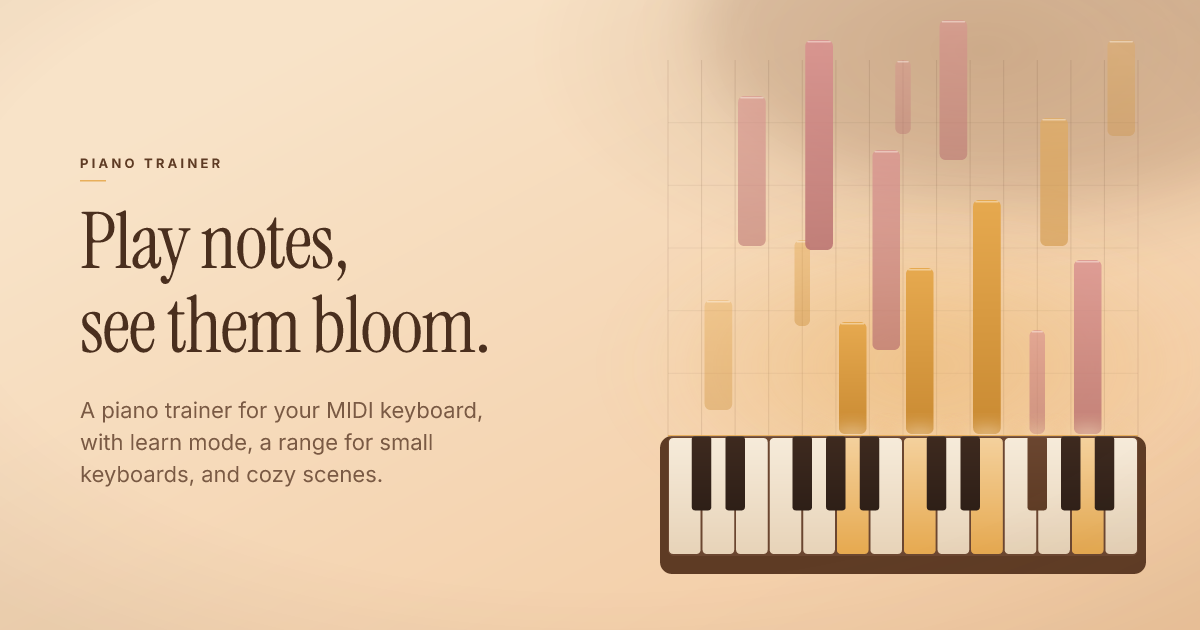
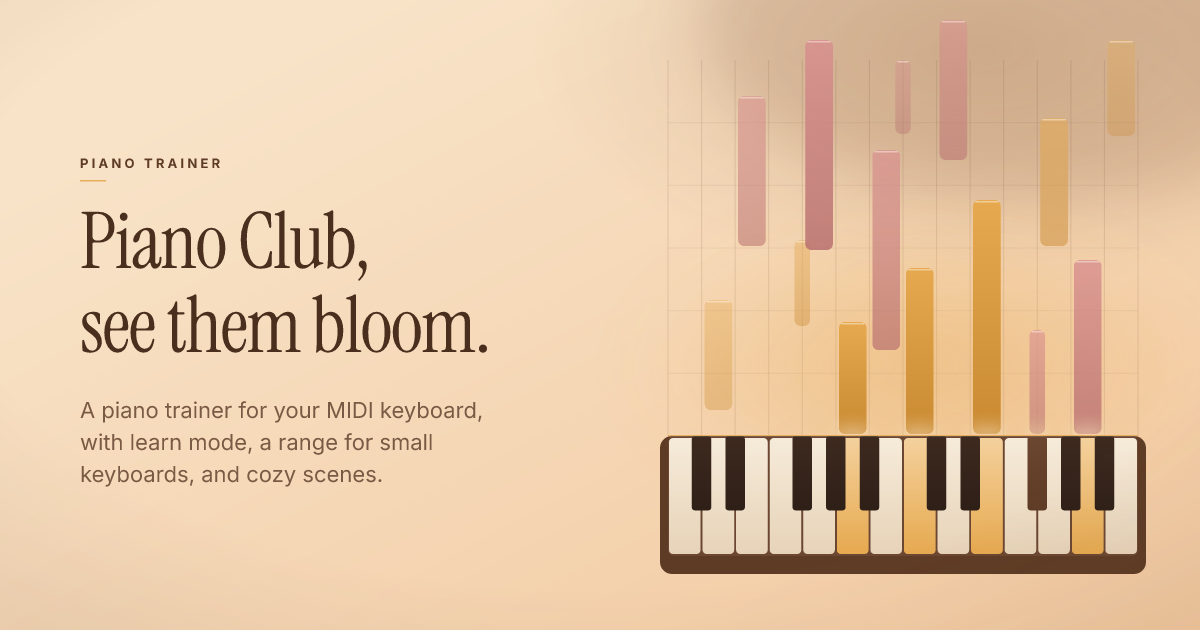
feat: name the app Piano Club
The header, landing headline, document titles, link preview, and
export filenames use Piano Club. Saved midee.* keys stay put.

Changed region(s): [[0.0925, 0.3317, 0.3083, 0.4524]]

diff --git a/index.html b/index.html
@@ -23,7 +23,7 @@
     .skip-link:not(:focus) { position: fixed; top: 0; transform: translateY(-200%); }
     html, body { background: #F8E3C8; color: #4A2F1E; }
   </style>
-  <title>Play notes, see them bloom</title>
+  <title>Piano Club, see them bloom</title>
   <meta name="description"
     content="A piano trainer for your MIDI keyboard, with learn mode, a range for small keyboards, and cozy scenes." />
   <meta name="theme-color" content="#F8E3C8" />
@@ -35,15 +35,15 @@
   <!-- iOS / PWA behavior -->
   <meta name="apple-mobile-web-app-capable" content="yes" />
   <meta name="apple-mobile-web-app-status-bar-style" content="default" />
-  <meta name="apple-mobile-web-app-title" content="Play notes" />
-  <meta name="application-name" content="Play notes, see them bloom" />
+  <meta name="apple-mobile-web-app-title" content="Piano Club" />
+  <meta name="application-name" content="Piano Club, see them bloom" />
   <meta name="mobile-web-app-capable" content="yes" />
   <meta name="format-detection" content="telephone=no" />
 
   <meta property="og:type" content="website" />
-  <meta property="og:site_name" content="Play notes, see them bloom" />
+  <meta property="og:site_name" content="Piano Club, see them bloom" />
   <meta property="og:locale" content="en_US" />
-  <meta property="og:title" content="Play notes, see them bloom" />
+  <meta property="og:title" content="Piano Club, see them bloom" />
   <meta property="og:description"
     content="A piano trainer for your MIDI keyboard, with learn mode, a range for small keyboards, and cozy scenes." />
   <meta property="og:url" content="https://mideevercel.vercel.app/" />
@@ -55,7 +55,7 @@
     content="A warm room with a walnut piano and honey and rose notes in late light." />
 
   <meta name="twitter:card" content="summary_large_image" />
-  <meta name="twitter:title" content="Play notes, see them bloom" />
+  <meta name="twitter:title" content="Piano Club, see them bloom" />
   <meta name="twitter:description"
     content="A piano trainer for your MIDI keyboard, with learn mode, a range for small keyboards, and cozy scenes." />
   <meta name="twitter:image" content="https://mideevercel.vercel.app/og.png" />
@@ -80,7 +80,7 @@
     {
       "@context": "https://schema.org",
       "@type": "SoftwareApplication",
-      "name": "Play notes, see them bloom",
+      "name": "Piano Club, see them bloom",
       "description": "A piano trainer for your MIDI keyboard, with learn mode, a range for small keyboards, and cozy scenes.",
       "applicationCategory": "EducationalApplication",
       "applicationSubCategory": "Music",
@@ -111,7 +111,7 @@
   <noscript>
     <div
       style="max-width:640px;margin:4rem auto;padding:2rem 1.5rem;font-family:'Nunito Sans',system-ui,sans-serif;color:#4A2F1E;line-height:1.55;">
-      <h1 style="font-weight:500;letter-spacing:-0.02em;">Play notes, see them bloom</h1>
+      <h1 style="font-weight:500;letter-spacing:-0.02em;">Piano Club, see them bloom</h1>
       <p>A piano trainer for your MIDI keyboard, with learn mode, a range for small keyboards, and cozy scenes.</p>
       <p>This page needs JavaScript.</p>
     </div>

diff --git a/src/i18n/locales/en.ts b/src/i18n/locales/en.ts
@@ -92,7 +92,7 @@ export const en = {
   'home.midi.disconnected': 'No MIDI device - keyboard & mouse work too',
   'home.aria': '{name} home',
   'landing.kicker': 'Piano trainer',
-  'landing.headline.html': 'Play notes,<br/>see them bloom.',
+  'landing.headline.html': 'Piano Club,<br/>see them bloom.',
   'landing.description':
     'A piano trainer for your MIDI keyboard, with learn mode, a range for small keyboards, and cozy scenes.',
   'landing.cta.start': 'Start playing',
@@ -393,7 +393,7 @@ export const en = {
   'modeError.retry': 'Try again',
 
   // ── Document title (browser tab) ───────────────────────────
-  'doc.title.home': 'Play notes, see them bloom',
+  'doc.title.home': 'Piano Club, see them bloom',
   'a11y.skipToMain': 'Skip to main content',
   'doc.title.live': 'Live · {name}',
   'doc.title.learn': 'Learn · {name}',

diff --git a/src/brand.ts b/src/brand.ts
@@ -1,9 +1,9 @@
 // The product name, in one place. The header, the home kicker, document
 // titles, and MIDI track names all read this. The full headline in
-// index.html is “Play notes, see them bloom”; this is the short name the
+// index.html is “Piano Club, see them bloom”; this is the short name the
 // header and the manifest use.
 
-export const APP_NAME = 'Play notes'
+export const APP_NAME = 'Piano Club'
 
 // Filename slug. Keep it in step with APP_NAME.
-export const APP_SLUG = 'play-notes'
+export const APP_SLUG = 'piano-club'

diff --git a/e2e/landing.spec.ts b/e2e/landing.spec.ts
@@ -15,7 +15,7 @@ test.describe('landing hero', () => {
     await expect(page).toHaveURL(/\/start$/)
     await expect(page.locator('#home-open')).toBeVisible()
     await expect(page.locator('.home-title')).toHaveText('What shall we play?')
-    await expect(page).toHaveTitle('Play notes, see them bloom')
+    await expect(page).toHaveTitle('Piano Club, see them bloom')
 
     await page.goto('/')
     await expect(page).toHaveURL(/\/$/)

diff --git a/src/i18n/index.test.ts b/src/i18n/index.test.ts
@@ -28,8 +28,8 @@ describe('t()', () => {
   })
 
   it('substitutes {var} placeholders', () => {
-    const out = t('toast.export.ready', { filename: 'play-notes.mp4' })
-    expect(out).toBe('play-notes.mp4 ready')
+    const out = t('toast.export.ready', { filename: 'piano-club.mp4' })
+    expect(out).toBe('piano-club.mp4 ready')
   })
 
   it('leaves {var} placeholders intact when no value is supplied', () => {

diff --git a/src/modes/HomeMode.test.tsx b/src/modes/HomeMode.test.tsx
@@ -42,7 +42,7 @@ describe('HomeMode', () => {
 
   it('sets the document title to the home title', () => {
     renderWithApp(() => <HomeMode />)
-    expect(document.title).toBe('Play notes, see them bloom')
+    expect(document.title).toBe('Piano Club, see them bloom')
   })
   it('updates the descriptive title when the home locale changes', async () => {
     renderWithApp(() => <HomeMode />)

diff --git a/e2e/accessibility.spec.ts b/e2e/accessibility.spec.ts
@@ -1,6 +1,6 @@
 import { expect, test } from '@playwright/test'
 
-const HOME_TITLE = 'Play notes, see them bloom'
+const HOME_TITLE = 'Piano Club, see them bloom'
 
 test.describe('App navigation accessibility', () => {
   test('the skip link stays offscreen before the app stylesheet loads', async ({ page }) => {

diff --git a/README.md b/README.md
@@ -1,4 +1,4 @@
-# Play notes, see them bloom
+# Piano Club, see them bloom
 
 A piano trainer for a MIDI keyboard. Open a `.mid` file, play live, or practise
 with learn mode. A small keyboard can use a range inside the full 88-key piano,
